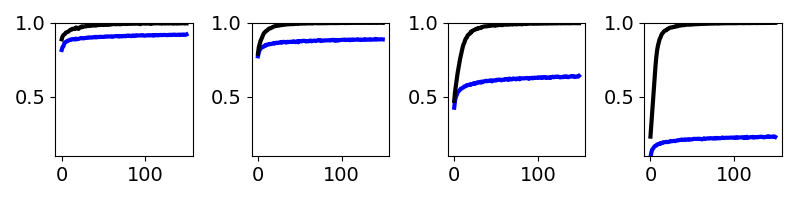
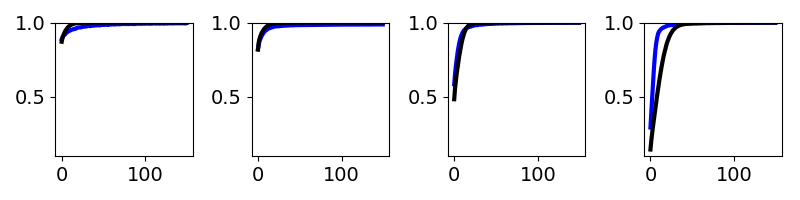
test

diff --git a/models.py b/models.py
@@ -1,9 +1,10 @@
 execfile('lasagne_tf.py')
 execfile('utils.py')
 import random
+import time
 
 class DNNClassifier(object):
-	def __init__(self,input_shape,model_class,lr=0.0001,optimizer = tf.train.AdamOptimizer,ALPHA=0,train_option='none'):
+	def __init__(self,input_shape,model_class,lr=0.0001,optimizer = tf.train.AdamOptimizer,distance_coeff=0):
 		#train_option = {none,pretrain,during,both}
 		tf.reset_default_graph()
 		config = tf.ConfigProto()
@@ -13,7 +14,7 @@ class DNNClassifier(object):
 		self.session    = tf.Session(config=config)
 		self.batch_size = input_shape[0]
 		self.lr         = lr
-		self.train_option = train_option
+		self.distance_coeff = distance_coeff
 		with tf.device('/device:GPU:0'):
 			self.learning_rate = tf.placeholder(tf.float32,name='learning_rate')
         		self.x             = tf.placeholder(tf.float32, shape=input_shape,name='x')
@@ -22,24 +23,20 @@ class DNNClassifier(object):
         	        self.layers        = model_class.get_layers(self.x,input_shape,training=self.training)
                         self.prediction    = self.layers[-1].output
 			count_number_of_params()
+			time.sleep(2)
                         self.variables     = tf.trainable_variables()
                         update_ops = tf.get_collection(tf.GraphKeys.UPDATE_OPS)
 			# TRAINING LOSS AND UPDATES
 	                training_opt             = optimizer(self.lr)
                         self.crossentropy_loss   = tf.reduce_mean(tf.nn.sparse_softmax_cross_entropy_with_logits(labels=self.y_, logits=self.prediction, name='cross_entropy'))
-			self.all_reconstruction_loss = [tf.reduce_sum(l.reconstruction_loss)/input_shape[0] for l in self.layers[1:-3]]
-			self.reconstruction_loss = tf.add_n(self.all_reconstruction_loss)/(len(self.layers)-1)
-			if(train_option == 'during' or train_option == 'both'):
-				self.training_loss = self.crossentropy_loss+ALPHA*self.reconstruction_loss
+			self.all_distance_loss   = [tf.reduce_sum(l.distance_loss)/input_shape[0] for l in self.layers[1:-1]]
+			self.distance_loss       = -tf.add_n(self.all_distance_loss)/(len(self.layers)-1)
+			if(distance_coeff>0):
+				self.training_loss = self.crossentropy_loss+distance_coeff*self.distance_loss
 			else:
                                 self.training_loss = self.crossentropy_loss
                         with tf.control_dependencies(update_ops):
                             	self.training_updates  = training_opt.minimize(self.training_loss,var_list=self.variables)
-			# PRETRAINING LOSS AND UPDATES
-			if(train_option == 'pretrain' or train_option == 'both'):
-                        	pretraining_opt  = optimizer(self.lr)
-                        	with tf.control_dependencies(update_ops):
-                            		self.pretraining_updates  = pretraining_opt.minimize(self.reconstruction_loss,var_list=self.variables)
 			# ACCURACY
         	        self.accuracy      = tf.reduce_mean(tf.cast(tf.equal(tf.cast(tf.argmax(self.prediction,1),tf.int32), self.y_),tf.float32))
 		self.session.run(tf.global_variables_initializer())
@@ -59,33 +56,13 @@ class DNNClassifier(object):
                         self.session.run(self.training_updates,feed_dict={self.x:X[here],self.y_:y[here],self.training:True,self.learning_rate:float32(self.lr)})
 			# GET TRAIN LOSS
 			if(I%update_time==0):
-				if(self.train_option=='none'):
+				if(self.distance_coeff>0):
                                 	train_loss.append(self.session.run(self.crossentropy_loss,feed_dict={self.x:X[here],self.y_:y[here],self.training:False}))
 				else:
                                         train_loss.append(self.session.run([self.crossentropy_loss,self.reconstruction_loss],feed_dict={self.x:X[here],self.y_:y[here],self.training:False}))
                                 print I,n_train,train_loss[-1]
         	return train_loss
-	def _prefit(self,X,y,indices,update_time=50):
-        	n_train    = X.shape[0]/self.batch_size
-        	train_loss = []
-        	for I in xrange(n_train):
-			# SAMPLE THE BATCH
-			if(self.batch_size<self.n_classes):
-				here = [random.sample(k,1) for k in indices]
-				here = [here[i] for i in permutation(self.n_classes)[:self.batch_size]]
-			else:
-				here = [random.sample(k,self.batch_size/self.n_classes) for k in indices]
-			here = concatenate(here)
-			# TRAIN OP
-                        self.session.run(self.pretraining_updates,feed_dict={self.x:X[here],self.y_:y[here],self.training:True,self.learning_rate:float32(self.lr)})
-			# GET TRAIN LOSS
-			if(I%update_time==0):
-                                train_loss.append(self.session.run(self.all_reconstruction_loss,feed_dict={self.x:X[here],self.y_:y[here],self.training:False}))
-	                        print 'pre',I,n_train,train_loss[-1]
-        	return train_loss
         def fit(self,X,y,X_test,y_test,n_epochs=5):
-                pretrain_loss = []
-                pretest_loss  = []
 		train_loss = []
 		train_accu = []
 		test_accu  = []
@@ -93,13 +70,6 @@ class DNNClassifier(object):
                 n_test     = X_test.shape[0]/self.batch_size
                 indices    = [find(y==k) for k in xrange(self.n_classes)]
                 print [len(i) for i in indices]
-		if(self.train_option=='both' or self.train_option=='pretrain'):
-			for II in xrange(n_epochs/4):
-				pretrain_loss.append(self._prefit(X,y,indices))
-				acc1 = zeros(len(self.layers)-1)
-                        	for j in xrange(n_test):
-                                	acc1+=self.session.run(self.all_reconstruction_loss,feed_dict={self.x:X_test[self.batch_size*j:self.batch_size*(j+1)],self.training:False})
-                        	pretest_loss.append(acc1/n_test)
 		for II in xrange(n_epochs):
                         if(II==90): self.lr/=5
                         elif(II==130): self.lr/=5
@@ -118,10 +88,7 @@ class DNNClassifier(object):
 	                train_accu.append(acc1/n_train)
 			print train_accu[-1]
                 	print 'test accu',test_accu[-1]
-		if(self.train_option=='pretrain' or self.train_option=='both'):
-                        return concatenate(train_loss),train_accu,test_accu,pretrain_loss,pretest_loss
-		else:
-	        	return concatenate(train_loss),train_accu,test_accu
+	        return concatenate(train_loss),train_accu,test_accu
 	def predict(self,X):
 		n = X.shape[0]/self.batch_size
 		preds = []
@@ -409,6 +376,32 @@ class allCNN3:
                 self.layers = layers
                 return self.layers
 
+class allCNN4:
+        def __init__(self,bn=1,n_classes=10,bias_option='unconstrained',init_W = tf.contrib.layers.xavier_initializer(uniform=True),init_b = tf.constant_initializer(0.)):
+                self.bn          = bn
+                self.n_classes   = n_classes
+                self.layers      = 0
+                self.init_W      = init_W
+                self.init_b      = init_b
+                self.bias_option = bias_option
+        def get_layers(self,input_variable,input_shape,training):
+                layers = [InputLayer(input_shape,input_variable)]
+                layers.append(ConvLayer(layers[-1],20,5,training=training,bn=self.bn,init_W=self.init_W,init_b=self.init_b,bias_option=self.bias_option,first=True))
+		# (20 28 28) : 15680
+                layers.append(ConvLayer(layers[-1],32,5,training=training,bn=self.bn,init_W=self.init_W,init_b=self.init_b,bias_option=self.bias_option))
+		# (32 24 24) : 18432
+                layers.append(ConvLayer(layers[-1],48,5,training=training,bn=self.bn,init_W=self.init_W,init_b=self.init_b,bias_option=self.bias_option))
+		# (48 20 20) : 19200
+                layers.append(DenseLayer(layers[-1],256,training=training,bn=self.bn,init_W=self.init_W,init_b=self.init_b,bias_option=self.bias_option))
+		# 2048
+                layers.append(DenseLayer(layers[-1],256,training=training,bn=self.bn,init_W=self.init_W,init_b=self.init_b,bias_option=self.bias_option))
+		# 256
+                layers.append(DenseLayer(layers[-1],self.n_classes,training=training,bn=self.bn,init_W=self.init_W,init_b=self.init_b,bias_option=self.bias_option,nonlinearity=False))
+                self.layers = layers
+                return self.layers
+
+
+
 
 
 class allDENSE1:
@@ -465,6 +458,26 @@ class allDENSE3:
                 layers.append(DenseLayer(layers[-1],self.n_classes,training=training,bn=self.bn,init_W=self.init_W,init_b=self.init_b,bias_option=self.bias_option,nonlinearity=False))
                 self.layers = layers
                 return self.layers
+
+class allDENSE4:
+        def __init__(self,bn=1,n_classes=10,bias_option='unconstrained',init_W = tf.contrib.layers.xavier_initializer(uniform=True),init_b = tf.constant_initializer(0.)):
+                self.bn          = bn
+                self.n_classes   = n_classes
+                self.layers      = 0
+                self.init_W      = init_W
+                self.init_b      = init_b
+                self.bias_option = bias_option
+        def get_layers(self,input_variable,input_shape,training):
+                layers = [InputLayer(input_shape,input_variable)]
+                layers.append(DenseLayer(layers[-1],15680,training=training,bn=self.bn,init_W=self.init_W,init_b=self.init_b,bias_option=self.bias_option,first=True))
+                layers.append(DenseLayer(layers[-1],18432,training=training,bn=self.bn,init_W=self.init_W,init_b=self.init_b,bias_option=self.bias_option))
+                layers.append(DenseLayer(layers[-1],19200,training=training,bn=self.bn,init_W=self.init_W,init_b=self.init_b,bias_option=self.bias_option))
+                layers.append(DenseLayer(layers[-1],256,training=training,bn=self.bn,init_W=self.init_W,init_b=self.init_b,bias_option=self.bias_option))
+                layers.append(DenseLayer(layers[-1],256,training=training,bn=self.bn,init_W=self.init_W,init_b=self.init_b,bias_option=self.bias_option))
+                layers.append(DenseLayer(layers[-1],self.n_classes,training=training,bn=self.bn,init_W=self.init_W,init_b=self.init_b,bias_option=self.bias_option,nonlinearity=False))
+                self.layers = layers
+                return self.layers
+
 
 
 

diff --git a/plot_cnn_vs_mlp.py b/plot_cnn_vs_mlp.py
@@ -33,9 +33,9 @@ def get_stat(name):
                 TEST_ACCU.append(asarray(test_accu))
                 TRAIN_ACCU.append(asarray(train_accu))
 	if(len(all_files)==0):
-		TRAIN_LOSS = zeros((3,3))
-                TRAIN_ACCU = zeros((3,3))
-                TEST_ACCU  = zeros((3,3))
+		TRAIN_LOSS = ones((3,3))
+                TRAIN_ACCU = ones((3,3))
+                TEST_ACCU  = ones((3,3))
         TRAIN_LOSS,TEST_ACCU,TRAIN_ACCU= asarray(TRAIN_LOSS),asarray(TEST_ACCU),asarray(TRAIN_ACCU)
 	return TRAIN_LOSS,TEST_ACCU,TRAIN_ACCU
 
@@ -62,10 +62,12 @@ for _ in [0]:
 			for dataset in DATASET:
 				name  = SAVE_DIR+'VORONOI/cnnvsmlp_'+dataset+'_'+model+'_lr'+lr+'_run*.pkl'
 				train_loss,test_accu,train_accu = get_stat(name)
+#				print shape(train_loss)
 				MEAN_TRAIN[model_nb].append(train_accu.mean(0))
 				STD_TRAIN[model_nb].append(train_accu.std(0))
                                 MEAN_TEST[model_nb].append(test_accu.mean(0))
                                 STD_TEST[model_nb].append(test_accu.std(0))
+				print shape(train_accu)
 		MEANS_TRAIN.append(MEAN_TRAIN)
 		STDS_TRAIN.append(STD_TRAIN)
                 MEANS_TEST.append(MEAN_TEST)
@@ -77,10 +79,15 @@ MEANS_TEST_ = asarray(MEANS_TEST) # (#LR,#models,#dataset,#epochs)
 STDS_TEST_  = asarray(STDS_TEST)
 
 
+print shape(MEANS_TRAIN_)
 
-MEANS = MEANS_TEST_[:,:,:,-1]
-STDS  = STDS_TEST_[:,:,:,-1]
+#MEANS = MEANS_TEST_[:,:,:,-1]
+#STDS  = STDS_TEST_[:,:,:,-1]
+MEANS = MEANS_TRAIN_[:,:,:,-1]
+STDS  = STDS_TRAIN_[:,:,:,-1]
 	
+print 
+
 ARG   = MEANS.argmax(0)
 
 DATASETS = ['Fashion','SVHN','CIFAR10','CIFAR100']
@@ -110,19 +117,32 @@ close()
 figure(figsize=(8,2))
 for dataset_nb in xrange(4):
         subplot(1,4,1+dataset_nb)
-        plot(MEANS_TRAIN_[ARG[4,dataset_nb],4,dataset_nb],color='b',lw=3)
-        plot(MEANS_TRAIN_[ARG[5,dataset_nb],5,dataset_nb],color='k',lw=3)
-        ylim([0.1,1])
+        semilogx(xrange(1,151),log(MEANS_TRAIN_[ARG[4,dataset_nb],4,dataset_nb]),color='b',lw=3)
+        semilogx(xrange(1,151),log(MEANS_TRAIN_[ARG[5,dataset_nb],5,dataset_nb]),color='k',lw=3)
+        ylim([-1.2,0])
 tight_layout()
 savefig('cnn_vs_mlp_3.png')
 close()
+
+figure(figsize=(8,2))
+for dataset_nb in xrange(4):
+        subplot(1,4,1+dataset_nb)
+        semilogx(xrange(1,151),log(MEANS_TRAIN_[ARG[6,dataset_nb],6,dataset_nb]),color='b',lw=3)
+        semilogx(xrange(1,151),log(MEANS_TRAIN_[ARG[7,dataset_nb],7,dataset_nb]),color='k',lw=3)
+        ylim([-1.2,0])
+tight_layout()
+savefig('cnn_vs_mlp_4.png')
+close()
+
+
+
 
 
 
 
 MEAN  = zeros((len(models),4))
 STD   = zeros((len(models),4))
-for i in xrange(4):
+for i in xrange(len(models)):
 	for j in xrange(4):
 		MEAN[i,j]=MEANS[ARG[i,j],i,j]
                 STD[i,j]=STDS[ARG[i,j],i,j]

diff --git a/lasagne_tf.py b/lasagne_tf.py
@@ -36,6 +36,7 @@ class Pool2DLayer:
     def __init__(self,incoming,window,pool_type='MAX'):
         self.output_shape = (incoming.output_shape[0],incoming.output_shape[1]/window,incoming.output_shape[2]/window,incoming.output_shape[3])
 	self.output = tf.nn.pool(incoming.output,(window,window),pool_type,padding='VALID',strides=(window,window))
+        self.distance_loss       = float32(0)
         self.reconstruction_loss = float32(0)
 
 
@@ -95,6 +96,7 @@ class DenseLayer:
 	else:                             reshape_input = incoming.output
         in_dim = prod(incoming.output_shape[1:])
         self.W = tf.Variable(init_W((in_dim,n_output)),name='W_dense',trainable=True)
+	print (in_dim,n_output)
 	self.output_shape = (incoming.output_shape[0],n_output)
 	print reshape_input
 	if(first==False):    renorm_input = tf.layers.batch_normalization(reshape_input,training=training,center=bn)
@@ -119,6 +121,7 @@ class DenseLayer:
                 self.state  = tf.greater(output,0)
                 self.output = tf.cast(self.state,tf.float32)*output-(1-tf.cast(self.state,tf.float32))*output
         else:	self.output = output
+	self.distance_loss       = tf.reduce_min(tf.abs(output)/tf.sqrt(tf.reduce_sum(tf.square(self.W),0,keepdims=True)+0.0001),1)
 	reconstruction           = tf.gradients(self.output,renorm_input,self.output)[0]
 	self.reconstruction_loss = cosine_distance(reconstruction,renorm_input,axis=[1])
 
@@ -164,6 +167,7 @@ class ConvLayer:
                 self.state  = tf.greater(output,0)
                 self.output = tf.cast(self.state,tf.float32)*output-(1-tf.cast(self.state,tf.float32))*output
 	else:	self.output = output
+        self.distance_loss       = tf.reduce_min(tf.abs(output)/tf.sqrt(tf.reduce_sum(tf.square(self.W),[0,1,2],keepdims=True)+0.0001),3)
         reconstruction           = tf.gradients(self.output,renorm_input,self.output)[0]
         self.reconstruction_loss = cosine_distance(reconstruction,renorm_input,axis=[1,2,3])
 
@@ -174,7 +178,7 @@ class GlobalPoolLayer:
         self.output = tf.reduce_mean(incoming.output,[1,2],keep_dims=True)
         self.output_shape = [incoming.output_shape[0],1,1,incoming.output_shape[3]]
 	self.reconstruction_loss = float32(0)
-
+        self.distance_loss       = float32(0)
 
 
 

diff --git a/run_distance.py b/run_distance.py
@@ -1,0 +1,54 @@
+from pylab import *
+import tensorflow as tf
+tf.logging.set_verbosity(tf.logging.ERROR)
+import cPickle
+
+execfile('utils.py')
+execfile('models.py')
+execfile('lasagne_tf.py')
+
+
+import os
+SAVE_DIR = os.environ['SAVE_DIR']
+
+models       = [smallCNN,largeCNN]
+models_names = ['SmallCNN','LargeCNN'] 
+#models       = [smallDENSE,largeDENSE]
+#models_names = ['SmallDENSE','LargeDENSE'] 
+
+init_ws       = [tf.uniform_unit_scaling_initializer(),tf.contrib.layers.xavier_initializer(uniform=True),tf.contrib.layers.xavier_initializer(uniform=False)]
+init_ws_names = ['XavierNormal']
+lrs           = [0.001,0.0005,0.0001]
+
+DATASET          = sys.argv[-1]
+bias_constraint  = sys.argv[-2]
+model_nb         = int(sys.argv[-3])
+
+batch_norm       = int(sys.argv[-4])
+ne               = 150
+batch_size       = 50
+
+model,model_name = models[model_nb],models_names[model_nb]
+
+for k in xrange(10):
+    for lr in lrs:
+        for init,init_name in zip(init_ws,init_ws_names):
+	    for alpha in [0.0000001,0.00001,0.001]:
+                if(batch_norm):
+	            name   = 'VORONOI/distance_'+DATASET+'_'+model_name+'_lr'+str(lr)+'_init'+init_name+'_'+bias_constraint+'_run'+str(k)
+	    	else:
+		    name   = 'VORONOI/distance_nob_'+DATASET+'_'+model_name+'_lr'+str(lr)+'_init'+init_name+'_'+bias_constraint+'_run'+str(k)
+	    	x_train,y_train,x_test,y_test,input_shape,c=load_data(DATASET,batch_size=batch_size)
+####
+	    	m      = model(bn=batch_norm,bias_option=bias_constraint,init_W=init,n_classes=c)
+	    	model1 = DNNClassifier(input_shape,m,optimizer = tf.train.AdamOptimizer,lr=lr,distance_coeff=float32(alpha))
+	    	train_loss,train_accu,test_accu = model1.fit(x_train,y_train,x_test,y_test,n_epochs=ne)
+####
+	    	f = open(SAVE_DIR+name+'.pkl','wb')
+	    	cPickle.dump([train_loss,train_accu,test_accu],f)
+	    	f.close()
+		
+	
+	
+
+

diff --git a/run_cnn_vs_mlp.py b/run_cnn_vs_mlp.py
@@ -12,8 +12,8 @@ import os
 
 SAVE_DIR = os.environ['SAVE_DIR']
 
-models       = [allDENSE1,allCNN1]
-models_names = ['allDENSE1','allCNN1']
+models       = [allDENSE1,allDENSE2,allDENSE3,allCNN1,allCNN2,allCNN3]
+models_names = ['allDENSE1','allDENSE2','allDENSE3','allCNN1','allCNN2','allCNN3']
 
 init_ws       = [tf.contrib.layers.xavier_initializer(uniform=False)]
 init_ws_names = ['XavierNormal']
@@ -22,14 +22,14 @@ lrs           = [0.001,0.0005,0.0001]
 DATASET       = sys.argv[-1]
 
 batch_norm    = True
-ne            = 150
+ne            = 200
 batch_size    = 50
 
 
 for k in xrange(10):
     for lr in lrs:
         for init,init_name in zip(init_ws,init_ws_names):
-	    for model,model_name in zip(models[::-1],models_names):
+	    for model,model_name in zip(models,models_names):
 	        name   = 'VORONOI/cnnvsmlp_'+DATASET+'_'+model_name+'_lr'+str(lr)+'_run'+str(k)
 	        x_train,y_train,x_test,y_test,input_shape,c=load_data(DATASET,batch_size=batch_size)
 ####

diff --git a/plot_bias_constraint.py b/plot_bias_constraint.py
@@ -47,6 +47,7 @@ for init in inits:
 	for lr in lrs:
 		MEAN = [[] for i in xrange(8)]
 		STD  = [[] for i in xrange(8)]
+		print ' '
 		for dataset in DATASET:
 			for model in models:
 	
@@ -54,6 +55,7 @@ for init in inits:
 				train_loss,test_accu,train_accu = get_stat(name)
 				MEAN[0].append(mean(test_accu[:,-1]))
 				STD[0].append(std(test_accu[:,-1]))
+				print MEAN[0][-1],
 	
 				name  = SAVE_DIR+'VORONOI/bias_constraint_'+dataset+'_'+model+'_lr'+lr+'_init'+init+'_constrained_run*.pkl'
 				train_loss,test_accu,train_accu = get_stat(name)
